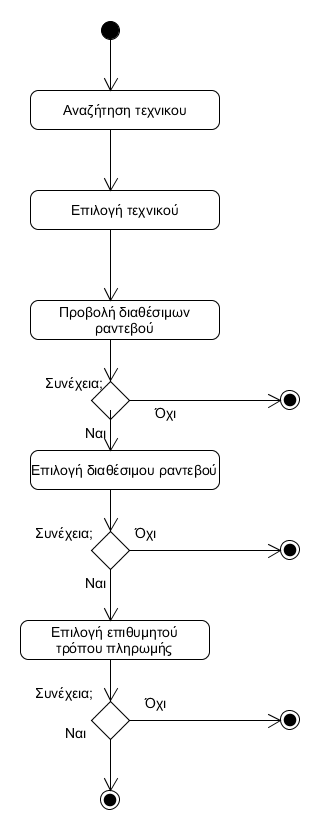
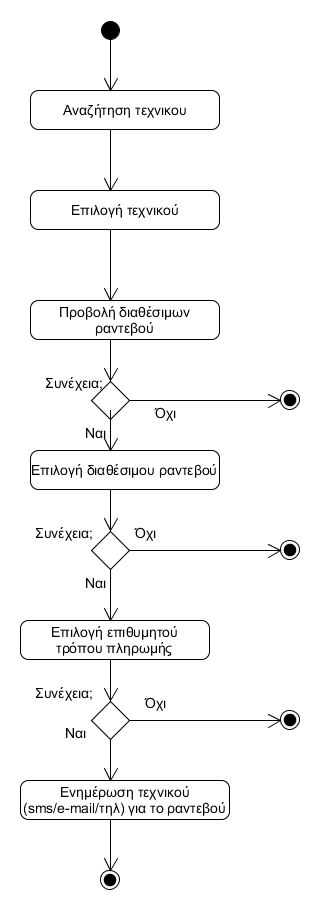
uc4:μερικές λεπτομέρειες στην ειδοποιηση τεχνικου

diff --git a/requirements/uc4-create-appointment.md b/requirements/uc4-create-appointment.md
@@ -16,7 +16,7 @@
 3. Ο πελάτης βλέπει τα διαθέσιμα ραντεβού του τεχνικού.
 4. Ο πελάτης επιλέγει κάποιο από τα διαθέσιμα ραντεβού.
 5. Ο πελάτης επιλέγει τον επιθυμητό τρόπο πληρωμής.
-6. Ειδοποιείται ο τεχνικός πως ενας πελάτης ζητάει ενα ραντεβού(με βάση τον τρόπο που έχει επιλέξει να ειδοποιείται: sms/e-mail).
+6. Ειδοποιείται ο τεχνικός πως ενας πελάτης ζητάει ενα ραντεβού(με βάση τον τρόπο που έχει επιλέξει να ειδοποιείται: sms/τηλ/e-mail).
 
 ## Εναλλακτικές Ροές
 
